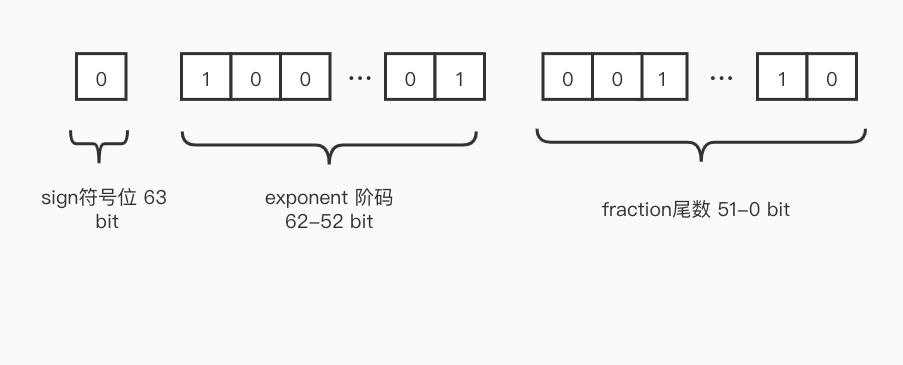
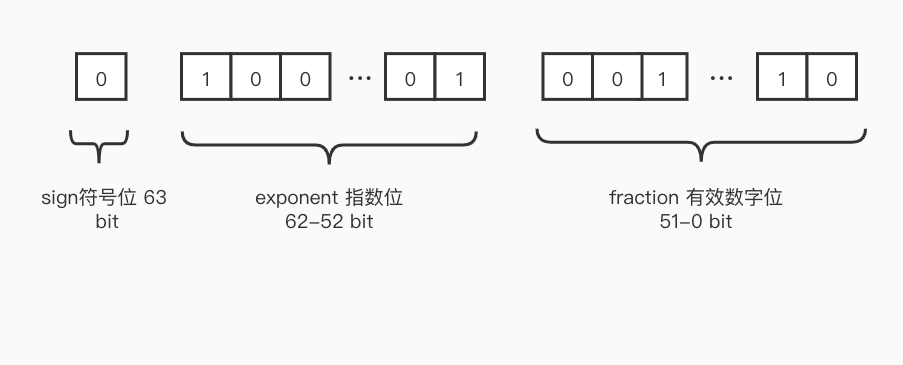
feat: home update

Changed region(s): [[0.6512, 0.5123, 0.8682, 0.6329], [0.2791, 0.5123, 0.4651, 0.5726]]

diff --git a/docs/.vuepress/theme/components/Home.vue b/docs/.vuepress/theme/components/Home.vue
@@ -6,10 +6,12 @@
           X
           <clock/>'S BLOG
         </p>
-        <p
-          v-if="data.tagline !== null"
-          class="description"
-        >{{ `/* ${data.tagline || $description || 'Welcome to your VuePress site'} */` }}</p>
+        <p v-if="data.tagline !== null" class="description">
+          /*
+          <span>{{slogan}}</span>
+          <span class="slogan">|</span>
+          */
+        </p>
       </h1>
     </header>
 
@@ -56,19 +58,29 @@
 <script>
 import NavLink from "@theme/components/NavLink.vue";
 import clock from "../../components/loading/clock";
+import { setTimeout } from "timers";
 
 export default {
   name: "Home",
 
   data() {
     return {
-      selectTag: "all"
+      selectTag: "all",
+      slogan: ""
     };
   },
 
   components: {
     NavLink,
     clock
+  },
+
+  mounted() {
+    this.setSloganAnimation();
+  },
+
+  unmouted() {
+    this.sloganInterval = null;
   },
 
   computed: {
@@ -115,6 +127,19 @@ export default {
   methods: {
     chgHomeDisplay(item) {
       this.selectTag = item.key;
+    },
+    setSloganAnimation(reverse) {
+      if (this.slogan === undefined || !this.data.tagline) return;
+      const sloganLen = this.slogan.length;
+      const taglineLen = this.data.tagline.length;
+      let flag = (reverse && sloganLen !== 0) || sloganLen === taglineLen;
+      let time = flag ? 100 : 200
+      if ((!reverse && sloganLen === taglineLen - 1) || (reverse && sloganLen === 1)) {
+        time = 600;
+      }
+      const len = flag ? sloganLen - 1 : sloganLen + 1;
+      this.slogan = this.data.tagline.slice(0, len);
+      this.sloganInterval = setTimeout(() => this.setSloganAnimation(flag), time);
     }
   }
 };
@@ -123,8 +148,6 @@ export default {
 <style lang="stylus">
 .home {
   display: block;
-  overflow-y: auto;
-  overflow-x: hidden;
   position: relative;
   height: 100vh;
 
@@ -187,9 +210,17 @@ export default {
       color: $accentColor;
       letter-spacing: 6px;
     }
+    .slogan {
+      animation cursor 0.7s infinite alternate-reverse
+    }
+    @keyframes cursor {
+      100% {
+        opacity 0
+      }
+    }
   }
 
-  $content-bgColor = #f5f5f5;
+  $content-bgColor = #f8fafc;
 
   .content-container {
     min-height: 100vh;

diff --git a/docs/js/numInJs.md b/docs/js/numInJs.md
@@ -1,25 +1,13 @@
 # 小数精度丢失的原因
 
-计算机由晶体管组成，内部数据的存储和运算都采用二进制，而我们在实际生活工作中，使用的是十进制。  
-因此，对于计算机内部而言，在读取计算时，产生的精度问题，本质上是使用二进制模拟十进制进行运算产生的精度问题。
+计算机由晶体管组成，所以内部数据的存储和运算都采用二进制，而我们在实际生活工作中，使用的是十进制。  
+因此，对于计算机在运算时产生的精度问题，本质上是使用二进制模拟十进制进行运算产生的精度问题。
 
 ## Js中的数字储存
-`Js`遵守JEEE 754规范定义的64位浮点格式表示数字。
+`Js`遵守IEEE 754规范定义的64位双精度浮点型表示数字。
 ![numInJs](../assets/numInJs.jpg)
-
-### 尾数  
-我们用5.2举个🌰，5.2转换为二进制为：  
-> 101.00110011...
-
-二进制中表示有效数字统一使用以1 为底位的科学计数法，又称之为规约化。  
-因此，5.2转换规格化数字表示为：  
-> 1.0100110011... * 2^2
-
-此时小数点后的`0100110011...`，即为尾数。  
-尾数最长为52位，那么为什么会出现如下情况：
-> Number.MAX_SAFE_INTEGER == Math.pow(2, 53) - 1  // true
-
-显然，除了0以外，其他规格化数字的首位均为 1，对此，JEEE 754默认省略了这个1所增加的存储范围。  
-实际上，尾数的有效位数为53位，因此，有上文现象出现。
-
-### 阶码
+IEEE 754标准规定，一个浮点数可以表示为：  
+> 浮点数 = 符号位 x 指数偏移值 x 分数值
+### 指数偏移值
+> 指数偏移值，是指浮点数表示发中的指数域的编码
+### 有效数字  

diff --git a/docs/computerNetwork/http.md b/docs/computerNetwork/http.md
@@ -11,7 +11,7 @@
 | OPTIONS | 访问接口支持的所有http请求方法 |
 | DELETE | 删除文件 |
 | CONNECT | 用于SSL加密的服务器链接，协议提升 |
-
+<!-- more -->
 ## 通用头
 | 名称  | 含义 |
 | --------- | ----------------------- |

diff --git a/docs/README.md b/docs/README.md
@@ -2,7 +2,7 @@
 home: true
 heroImage: /logo.svg
 heroText: XO'S BLOG
-tagline: 退而结网
+tagline: 临渊羡鱼，不如退而结网❤
 actionText: Hello World →
 actionLink: /css/loading-animation
 meta:
